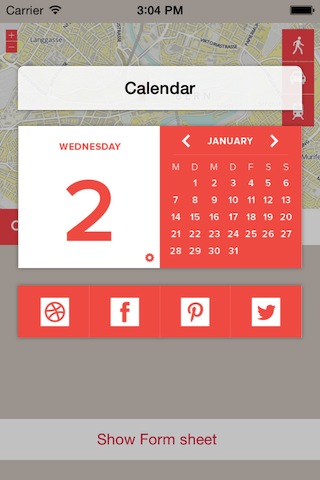
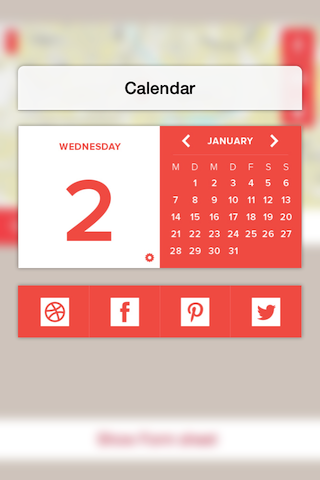
Update example and readme

diff --git a/Example/Xcode5 iOS 7 Example/Xcode5Example/Xcode5Example/MZViewController.m b/Example/Xcode5 iOS 7 Example/Xcode5Example/Xcode5Example/MZViewController.m
@@ -18,6 +18,11 @@
 - (void)viewDidLoad
 {
     [super viewDidLoad];
+    
+    [[MZFormSheetBackgroundWindow appearance] setBackgroundBlurEffect:YES];
+    [[MZFormSheetBackgroundWindow appearance] setBlurRadius:5.0];
+    [[MZFormSheetBackgroundWindow appearance] setBackgroundColor:[UIColor clearColor]];
+    [[MZFormSheetBackgroundWindow appearance] setShouldBackgroundImageOverlapStatusBar:YES];
 }
 
 - (IBAction)showFormSheet:(UIButton *)sender

diff --git a/MZFormSheetController/MZFormSheetBackgroundWindow.h b/MZFormSheetController/MZFormSheetBackgroundWindow.h
@@ -65,6 +65,7 @@
 /*
  Asynchronously recompute the display of background blur.
  Recommended to use if you expect interface orientation or some dynamic animations belof form sheet
+ By default, this is NO
  */
 @property (nonatomic, assign) BOOL dynamicBlur MZ_APPEARANCE_SELECTOR;
 

diff --git a/README.md b/README.md
@@ -32,6 +32,25 @@ If you want to dismiss form sheet controller, you can use category on UIViewCont
 }];
 ```
 
+## Blur background effect
+
+It is possible to display blurry background, you can set MZFormSheetWindow appearance or directly to window
+
+
+``` objective-c
+[[MZFormSheetBackgroundWindow appearance] setBackgroundBlurEffect:YES];
+[[MZFormSheetBackgroundWindow appearance] setBlurRadius:5.0];
+[[MZFormSheetBackgroundWindow appearance] setBackgroundColor:[UIColor clearColor]];
+[[MZFormSheetBackgroundWindow appearance] setShouldBackgroundImageOverlapStatusBar:YES];
+```
+
+``` objective-c
+[[MZFormSheetController sharedWindow] setBackgroundBlurEffect:YES];
+[[MZFormSheetController sharedWindow] setBlurRadius:5.0];
+[[MZFormSheetController sharedWindow] setBackgroundColor:[UIColor clearColor]];
+[[MZFormSheetController sharedWindow] setShouldBackgroundImageOverlapStatusBar:YES];
+```
+
 ## Transitions
 
 MZFormSheetController has predefined couple transitions.
